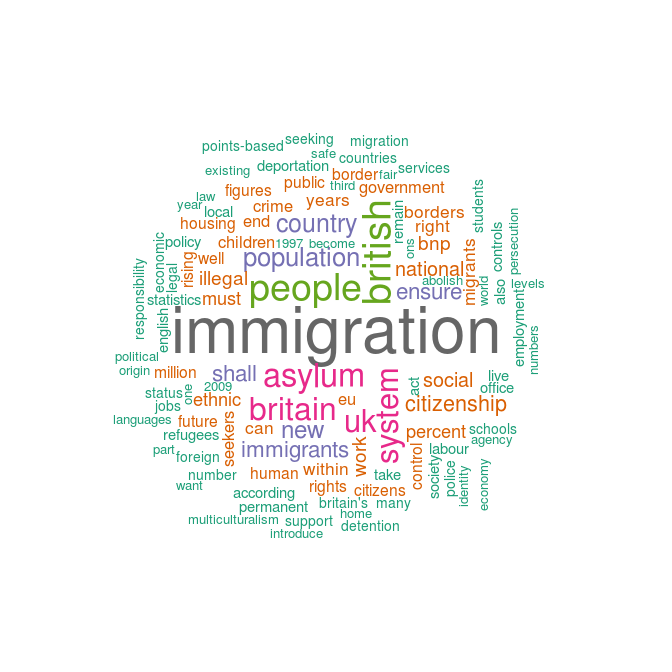
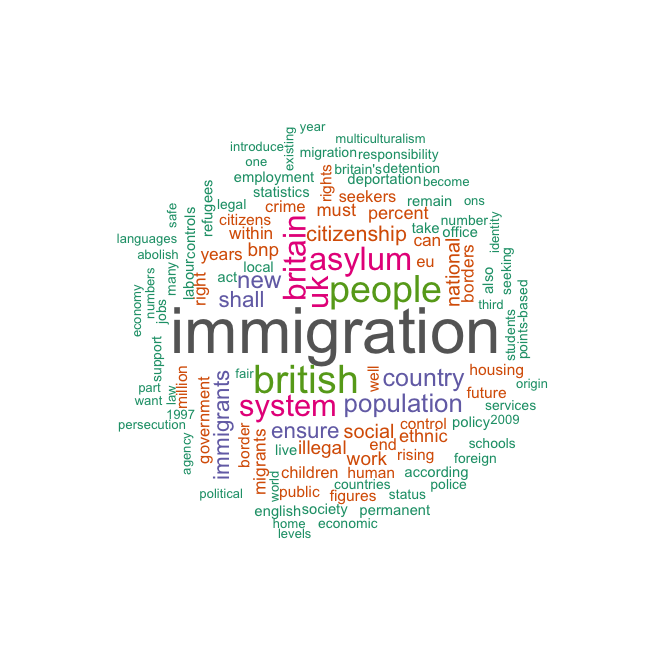
Update README, NEWS

Changed region(s): [[0.1562, 0.1875, 0.8125, 0.8125]]

diff --git a/README.md b/README.md
@@ -3,15 +3,15 @@
 
 [![CRAN Version](https://www.r-pkg.org/badges/version/quanteda)](https://CRAN.R-project.org/package=quanteda) [![Downloads](https://cranlogs.r-pkg.org/badges/quanteda)](https://CRAN.R-project.org/package=quanteda) [![Total Downloads](https://cranlogs.r-pkg.org/badges/grand-total/quanteda?color=orange)](https://CRAN.R-project.org/package=quanteda) [![Travis-CI Build Status](https://travis-ci.org/kbenoit/quanteda.svg?branch=master)](https://travis-ci.org/kbenoit/quanteda) [![Build status](https://ci.appveyor.com/api/projects/status/e3tf2h1ff0nlv249/branch/master?svg=true)](https://ci.appveyor.com/project/kbenoit/quanteda/branch/master) [![codecov.io](https://codecov.io/github/kbenoit/quanteda/coverage.svg?branch=master)](https://codecov.io/gh/kbenoit/quanteda/branch/master)
 
-**quanteda** v0.9.9 under development
--------------------------------------
+**quanteda** v0.9.9: Important Changes
+--------------------------------------
 
 This version of the package is a transitional release prior to v1.0. It includes some major API changes (see below), but with the most of the older functions retained and deprecated. v0.9.9 also implements many enhancements and performance improvements. See [Quanteda Structure and Design](https://kbenoit.github.io/quanteda/articles/development-plans.html) for details.
 
 About the package
 -----------------
 
-An R package for managing and analyzing text, created by [Kenneth Benoit](kbenoit@lse.ac.uk) in collaboration with a team of core [contributors](https://github.com/kbenoit/quanteda/graphs/contributors): [Paul Nulty](https://github.com/pnulty), [Adam Obeng](https://github.com/adamobeng), [Kohei Watanabe](https://github.com/koheiw), [Haiyan Wang](https://github.com/HaiyanLW), [Ben Lauderdale](https://github.com/lauderdale), and [Will Lowe](https://github.com/conjugateprior).
+An R package for managing and analyzing text, created by [Kenneth Benoit](kbenoit@lse.ac.uk) in collaboration with a team of core [contributors](https://github.com/kbenoit/quanteda/graphs/contributors): [Kohei Watanabe](https://github.com/koheiw), [Paul Nulty](https://github.com/pnulty), [Adam Obeng](https://github.com/adamobeng), [Haiyan Wang](https://github.com/HaiyanLW), [Ben Lauderdale](https://github.com/lauderdale), and [Will Lowe](https://github.com/conjugateprior).
 Supported by the European Research Council grant ERC-2011-StG 283794-QUANTESS.
 
 For more details, see the [**package website**](https://kbenoit.github.io/quanteda/).
@@ -45,7 +45,7 @@ The package also implements common NLP feature selection functions, such as remo
 Easily search and save *keywords in context*, for instance, or identify keywords. Like all of **quanteda**'s pattern matching functions, users have the option of simple "[glob](https://en.wikipedia.org/wiki/Glob_(programming))" expressions, regular expressions, or fixed pattern matches.
 
 **Dictionary-based analysis**.
-**quanteda** allows fast and flexible implementation of dictionary methods, including the import and conversion of foreign dictionary formats such as those from Provalis's WordStat, the Linguistic Inquiry and Word Count (LIWC), Lexicoder, and Yoshioder.
+**quanteda** allows fast and flexible implementation of dictionary methods, including the import and conversion of foreign dictionary formats such as those from Provalis's WordStat, the Linguistic Inquiry and Word Count (LIWC), Lexicoder, Yoshioder, and YAML.
 
 **Text analytic methods**.
 Once constructed, a *dfm* can be easily analyzed using either **quanteda**'s built-in tools for scaling document positions (for the "wordfish" and "Wordscores" models, direct use with the [**ca**](https://CRAN.R-project.org/package=ca) package for correspondence analysis), predictive models using Naive Bayes multinomial and Bernoulli classifiers, computing distance or similarity matrixes of features or documents, or computing readability or lexical diversity indexes.
@@ -112,7 +112,7 @@ Demonstration
 
 ``` r
 library(quanteda)
-## quanteda version 0.9.9.18
+## quanteda version 0.9.9.20
 ## 
 ## Attaching package: 'quanteda'
 ## The following object is masked from 'package:utils':
@@ -144,7 +144,7 @@ summary(uk2010immigCorpus)
 ##          UKIP   346    739        27         UKIP
 ## 
 ## Source:  /Users/kbenoit/Dropbox (Personal)/GitHub/quanteda/* on x86_64 by kbenoit
-## Created: Sat Feb  4 16:32:01 2017
+## Created: Sun Feb  5 08:35:20 2017
 ## Notes:   Immigration-related sections of 2010 UK party manifestos
 
 # key words in context for "deport", 3 words of context
@@ -172,6 +172,7 @@ topfeatures(mydfm, 20)  # 20 top words
 ##          13          12
 
 # plot a word cloud
+set.seed(100)
 textplot_wordcloud(mydfm, min.freq = 6, random.order = FALSE,
                    rot.per = .25, 
                    colors = RColorBrewer::brewer.pal(8,"Dark2"))
@@ -184,7 +185,7 @@ Contributing
 
 Contributions in the form of feedback, comments, code, and bug reports are most welcome. How to contribute:
 
--   Fork the source code, modify, and issue a [pull request](https://help.github.com/articles/creating-a-pull-request-from-a-fork/) through the [project GitHub page](https://github.com/kbenoit/quanteda). See our [Contributor Code of Conduct](https://github.com/kbenoit/quanteda/blob/master/CONDUCT.md).
+-   Fork the source code, modify, and issue a [pull request](https://help.github.com/articles/creating-a-pull-request-from-a-fork/) through the [project GitHub page](https://github.com/kbenoit/quanteda). See our [Contributor Code of Conduct](https://github.com/kbenoit/quanteda/blob/master/CONDUCT.md) and the all-important **quanteda** [Style Guide](https://github.com/kbenoit/quanteda/wiki/Style-guide).
 
 -   Issues, bug reports, and wish lists: [File a GitHub issue](https://github.com/kbenoit/quanteda/issues).
 

diff --git a/NEWS.md b/NEWS.md
@@ -13,6 +13,7 @@
 * Fixed a bug in `convert(x, to = "lsa")` that transposed row and column names (#526)
 * Added missing `fcm()` method for corpus objects (#538)
 * Fixed C++ incompatibilities on older platforms due to compiler incompatibilities with the reuqired TBB libraries (for multi-threading).  (#531, #532, #535)
+* Fixed some minor issues with reading in Lexicoder format dictionaries (Improvements to Lexicoder dictionary handling 
 
 
 ## Changes since v0.9.9-3
